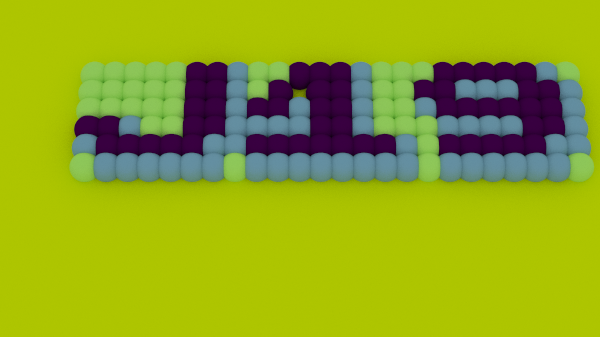
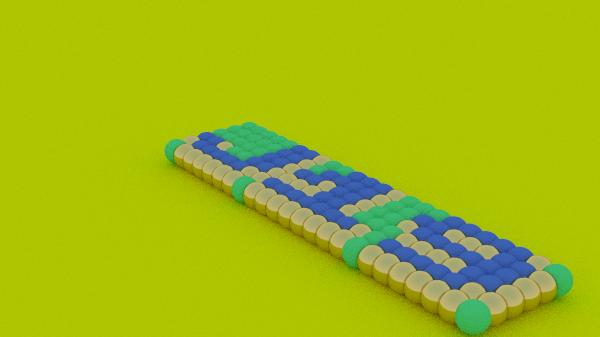
scene

diff --git a/src/scene.rs b/src/scene.rs
@@ -18,11 +18,11 @@ lazy_static! {
         Material::Diffuse(material)
     };
     static ref MATERIAL_LEFT: Material = {
-        let material = Dielectric {
-            index_of_refraction: 1.5,
+        let material = Diffuse {
+            albedo: Color3::new(0.1, 0.7, 0.2),
         };
 
-        Material::Dielectric(material)
+        Material::Diffuse(material)
     };
     static ref MATERIAL_RIGHT: Material = {
         let material = Metal {
@@ -73,26 +73,24 @@ lazy_static! {
         for (a, line) in pixels.iter().enumerate() {
             for (b, character) in line.iter().enumerate() {
                 let material = match character {
-                    'x' => 5,
-                    'y' => 1,
-                    'z' => 2,
-                    _ => 3,
+                    'x' => &*MATERIAL_LEFT,
+                    'y' => &*MATERIAL_CENTER,
+                    'z' => &*MATERIAL_RIGHT,
+                    _ => &MATERIAL_LIST[100],
                 };
                 let a = a as Float;
                 let b = b as Float;
                 let position = Vector3::new(
                     -a + 5.0,
-                    0.2,
+                    0.7,
                     b - 10.0,
                 );
 
-                if (position - Point3::new(4.0, 0.2, 0.0)).length() > 0.9 {
-                    world.add(Hittable::Sphere(Sphere {
-                        position,
-                        radius: 0.7,
-                        material: &MATERIAL_LIST[material],
-                    }));
-                }
+                world.add(Hittable::Sphere(Sphere {
+                    position,
+                    radius: 0.7,
+                    material,
+                }));
             }
         }
 
@@ -101,9 +99,9 @@ lazy_static! {
         world
     };
     pub static ref CAMERA: Camera = {
-        let look_from = Point3::new(-20.0, 40.0, 0.0);
-        let look_at = Point3::new(0.0, 0.0, 0.0);
-        let view_up = Vector3::unit_vector(Vector3::new(1.0, 1.0, 0.0));
+        let look_from = Point3::new(-25.0, 20.0, 35.0);
+        let look_at = Point3::new(5.0, 0.0, -5.0);
+        let view_up = Vector3::unit_vector(Vector3::new(0.0, 1.0, 0.0));
         let fov = 20.0;
         let dist_to_focus = (look_from - look_at).length();
         let aperture = 0.1;

diff --git a/src/main.rs b/src/main.rs
@@ -33,7 +33,7 @@ use vector::{Color3, Point3, Vector3};
 const ASPECT_RATIO: Float = 16.0 / 9.0;
 const WIDTH: usize = 600;
 const HEIGHT: usize = (WIDTH as Float / ASPECT_RATIO) as usize;
-const SAMPLES_PER_PIXEL: usize = 500;
+const SAMPLES_PER_PIXEL: usize = 50;
 const NUM_CPU: usize = 2;
 const TILE_WIDTH: usize = 16;
 const TILE_HEIGHT: usize = 16;
